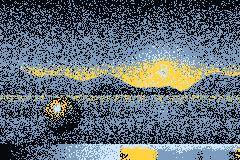
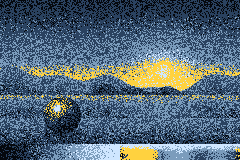
fix(palettes): give Enhance a deep blue for shadows and midtones
The palette jumped from screen black (L* 2) to the dim blue (L* 63), so
every shadow and midtone dithered from black alone: a noisy sky and a
dirty sphere. A deep scan blue (#2a4260, L* 27) fills the gap. Preview
and hero variants regenerated.

diff --git a/src/lib/palettes.ts b/src/lib/palettes.ts
@@ -322,10 +322,12 @@ export const PALETTE_PRESETS = [
     id: "enhance",
     name: "Enhance",
     description:
-      "PixelSynth’s own colors: screen black, two scan blues and the reticle yellow, which only lands on warm tones.",
+      "PixelSynth’s own colors: screen black, three scan blues and the reticle yellow, which only lands on warm tones.",
     group: "PixelSynth",
     match: "color",
-    colors: ["#05080d", "#7b9cbc", "#cfe6ff", "#ffd23f"],
+    // The deep blue fills the gap between black (L* 2) and the dim blue
+    // (L* 63), so shadows and midtones don't dither from black alone.
+    colors: ["#05080d", "#2a4260", "#7b9cbc", "#cfe6ff", "#ffd23f"],
   },
 ] as const satisfies readonly PalettePreset[];
 
